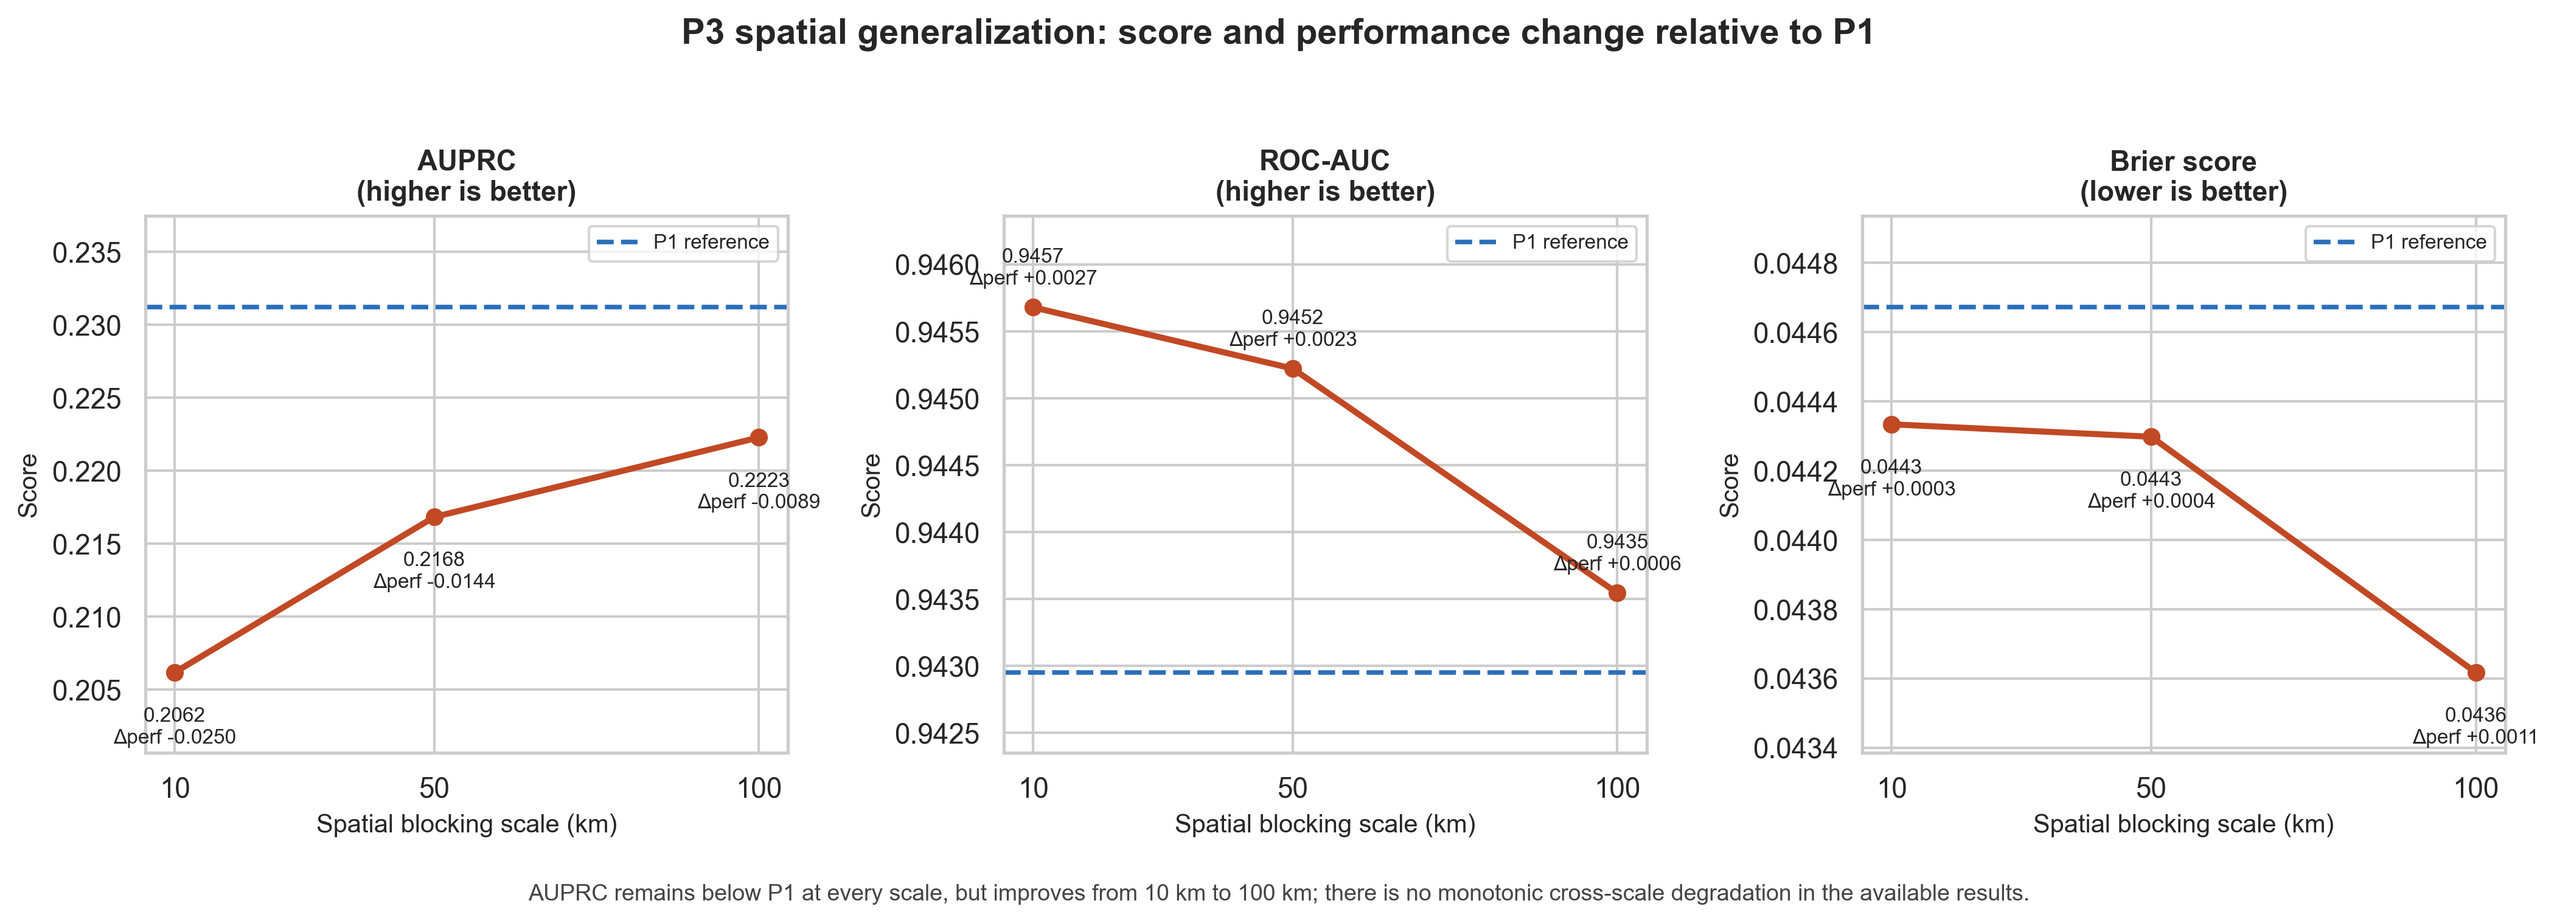
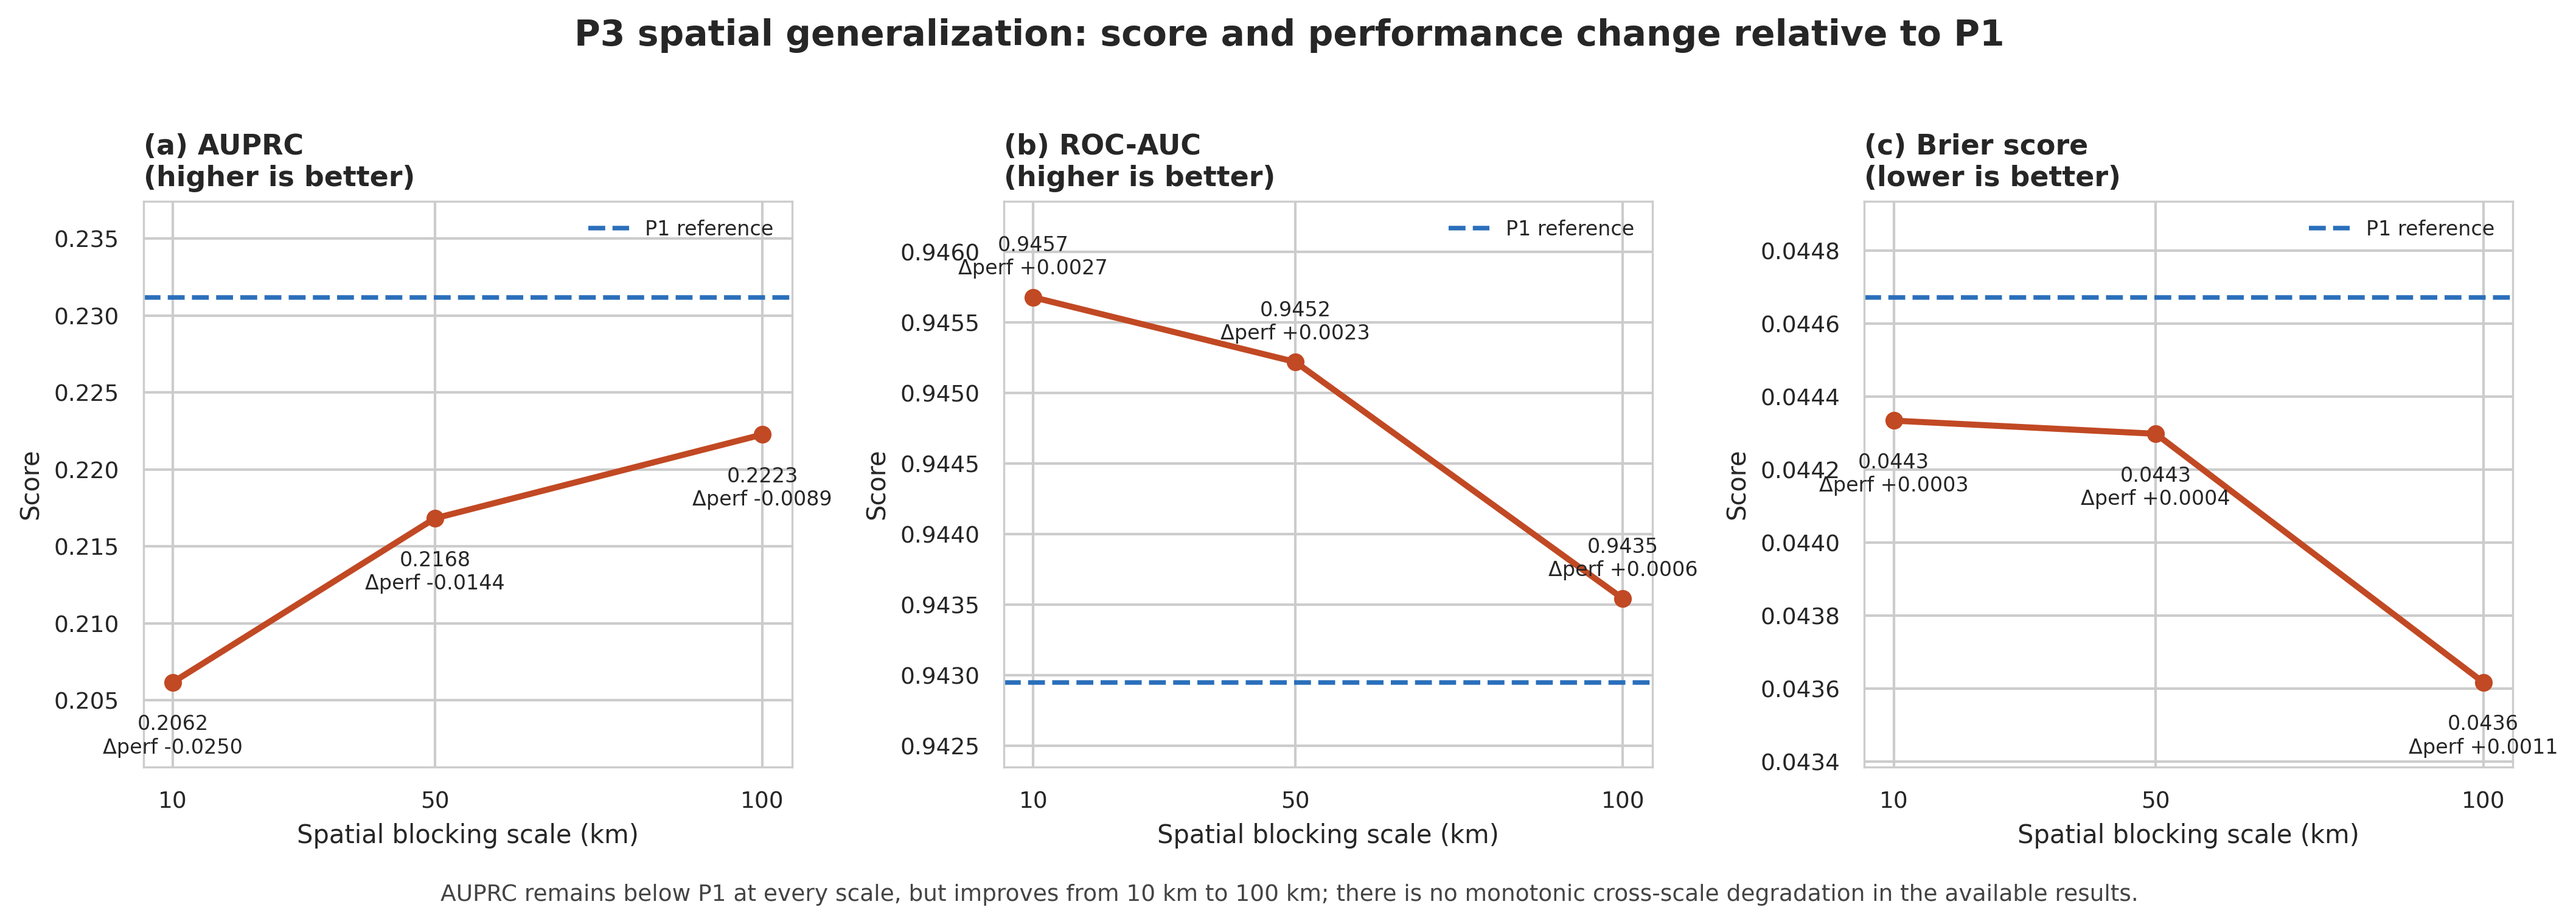
完善SHAP分析图与火灾非线性归因小结
更新文件：code/task6_shap_analysis.py、docs/README_LY_FINAL.md，以及results目录下的P1模型对比图、P3多尺度图、SHAP蜂群图、SHAP依赖图和BIOME雷达图；新增文件：docs/fire_nonlinear_trigger_ecological_attribution_summary.md。

diff --git a/code/task6_shap_analysis.py b/code/task6_shap_analysis.py
@@ -114,10 +114,16 @@ plt.rcParams.update(
     {
         "figure.dpi": 130,
         "savefig.dpi": 300,
+        "font.family": "DejaVu Sans",
+        "font.size": 9,
         "axes.titleweight": "bold",
         "axes.labelsize": 10,
         "axes.titlesize": 11,
+        "axes.linewidth": 0.8,
         "legend.fontsize": 8,
+        "legend.frameon": False,
+        "xtick.labelsize": 9,
+        "ytick.labelsize": 9,
     }
 )
 
@@ -141,7 +147,7 @@ def plot_tree_vs_baselines() -> pd.DataFrame:
         ("Brier score", "lower is better"),
     ]
     fig, axes = plt.subplots(1, 4, figsize=(14.2, 4.3))
-    for ax, (metric, direction) in zip(axes, specs):
+    for panel, (ax, (metric, direction)) in enumerate(zip(axes, specs)):
         values = metrics[metric].astype(float).to_numpy()
         names = metrics["Model"].astype(str).tolist()
         bars = ax.bar(
@@ -160,7 +166,11 @@ def plot_tree_vs_baselines() -> pd.DataFrame:
                 va="bottom",
                 fontsize=8,
             )
-        ax.set_title(f"{metric}\n{direction}", fontsize=10)
+        ax.set_title(
+            f"({chr(97 + panel)}) {metric}\n{direction}",
+            fontsize=10,
+            loc="left",
+        )
         ax.set_xticks(range(len(metrics)))
         ax.set_xticklabels(
             [MODEL_LABELS[name] for name in names], rotation=32, ha="right"
@@ -230,7 +240,9 @@ def plot_p3_generalization_gap() -> pd.DataFrame:
 
     fig, axes = plt.subplots(1, 3, figsize=(14.2, 4.5))
     scales = p3["Scale_km"].to_numpy()
-    for ax, (col, label, higher_better) in zip(axes, metric_specs):
+    for panel, (ax, (col, label, higher_better)) in enumerate(
+        zip(axes, metric_specs)
+    ):
         scores = p3[col].astype(float).to_numpy()
         reference = float(p1[col])
         ax.plot(scales, scores, marker="o", lw=2.4, color="#C14924")
@@ -249,7 +261,11 @@ def plot_p3_generalization_gap() -> pd.DataFrame:
         values = np.r_[scores, reference]
         spread = max(values.max() - values.min(), 0.001)
         ax.set_ylim(values.min() - 0.22 * spread, values.max() + 0.25 * spread)
-        ax.set_title(f"{label}\n({'higher' if higher_better else 'lower'} is better)")
+        ax.set_title(
+            f"({chr(97 + panel)}) {label}\n"
+            f"({'higher' if higher_better else 'lower'} is better)",
+            loc="left",
+        )
         ax.set_xlabel("Spatial blocking scale (km)")
         ax.set_xticks(scales)
         ax.set_ylabel("Score")
@@ -527,7 +543,7 @@ def plot_biome_shap(
         subplot_kw={"polar": True},
     )
     axes = np.atleast_1d(axes).ravel()
-    for ax, biome in zip(axes, biomes):
+    for panel, (ax, biome) in enumerate(zip(axes, biomes)):
         subset = (
             contributions.loc[contributions["BIOME"].eq(biome)]
             .set_index("feature_group")
@@ -535,19 +551,28 @@ def plot_biome_shap(
         )
         values = subset["share_within_four_groups"].to_numpy(dtype=float)
         closed = np.r_[values, values[0]]
-        ax.plot(theta_closed, closed, color="#C14924", lw=2)
-        ax.fill(theta_closed, closed, color="#C14924", alpha=0.20)
+        ax.plot(theta_closed, closed, color="#C14924", lw=2.1)
+        ax.fill(theta_closed, closed, color="#E76F51", alpha=0.22)
         ax.set_xticks(theta)
         ax.set_xticklabels(
             ["Fire history", "Drought /\nmoisture", "Wind", "Vegetation"],
             fontsize=8,
         )
-        ax.set_ylim(0, max(0.55, np.nanmax(values) * 1.08))
-        ax.set_yticklabels([])
+        # A fixed radial scale is essential for valid cross-BIOME comparison.
+        ax.set_ylim(0, 0.60)
+        ax.set_yticks([0.15, 0.30, 0.45, 0.60])
+        ax.set_yticklabels(["15%", "30%", "45%", "60%"], fontsize=6.5)
+        ax.set_rlabel_position(45)
+        ax.grid(color="#C8C8C8", lw=0.7)
         name = subset["biome_short"].dropna().iloc[0]
         n = int(performance.loc[performance["BIOME"].eq(biome), "test_n"].iloc[0])
         fires = int(performance.loc[performance["BIOME"].eq(biome), "fire_n"].iloc[0])
-        ax.set_title(f"{name} (BIOME {biome})\nn={n:,}, fires={fires}", pad=16)
+        ax.set_title(
+            f"({chr(97 + panel)}) {name} (BIOME {biome})\n"
+            f"n={n:,}, fires={fires}",
+            pad=16,
+            loc="left",
+        )
     for ax in axes[len(biomes) :]:
         ax.set_visible(False)
     fig.suptitle(

diff --git a/docs/fire_nonlinear_trigger_ecological_attribution_summary.md b/docs/fire_nonlinear_trigger_ecological_attribution_summary.md
@@ -1,0 +1,7 @@
+# 火灾非线性触发机制生态学归因小结
+
+P1 LightGBM 的 SHAP 蜂群图表明，月尺度火险并非由单一气象变量控制，而是由土地利用、地形、季节位相、人类可达性、植被状态和水分条件共同塑造。全局重要性最高的变量包括耕地比例、平均海拔、季节余弦项、距建成区距离、树冠覆盖、NDVI 与三个月累计降水，说明点火机会、燃料数量及其含水状态在不同背景下发生耦合。生态区雷达图进一步显示，在预设的四类物理驱动中，植被贡献占 35.9%–54.6%，干旱/水分占 27.0%–44.2%，风场占 12.4%–19.5%，火历史占 4.1%–14.6%；不同 BIOME 的贡献结构明显异质，因此全国统一阈值不宜直接解释为普适生态规律。
+
+依赖曲线揭示了清楚的非线性阈值。距上次火灾月数由低十分位 37 个月升至高十分位 120 个月时，平均 SHAP 由 0.536 降至 −0.105，差值 −0.641；风险贡献约在 50–65 个月附近由正转负，提示近期火活动所代表的持续点火环境或易燃景观记忆，比简单的“休养越久、燃料越多”关系更符合本数据。三个月平均 VPD 在低值区快速下降，约 0.3–0.6 后转为弱负，随后在中等区间回升，高十分位相对低十分位仍下降 0.329，呈现显著的非单调响应。三个月累计降水的抑制效应更稳定：约 250–300 后 SHAP 明显转负，低、高十分位差为 −0.610，反映持续湿润对燃料可燃性的限制。上述结论是条件关联而非独立因果效应；变量相关性、生态区组成与模型交互均会改变 SHAP 方向，应结合分区样本量、火点数和不确定性进行解释。
+
+数据依据：`04_shap_beeswarm.png`、`05_shap_dependence.png`、`05_nonlinear_trigger_summary.csv` 与 `06_biome_shap_group_contributions.csv`。

diff --git a/docs/README_LY_FINAL.md b/docs/README_LY_FINAL.md
@@ -10,9 +10,9 @@ P1 采用严格时间外推：2015–2021 训练、2022 验证、2023–2024 测
 官方 P3 结果中，空间阻断尺度由 100 km 缩小至 10 km 时，AUPRC 从 0.2223 降至 0.2062，绝对下降 **0.0161**（约 7.2%）；ROC-AUC 在 0.9435–0.9457 间基本稳定。这说明细尺度空间外推主要损失稀有起火样本的排序能力，因而需要重点关注局地气候/地貌组合与训练区域不同的网格。
 
 ## 非线性触发机制归因
-- **months_since_last_fire**：从低十分位（42.9）到高十分位（120）时，平均 SHAP 变化为 -0.600。
-- **VPD_mean_mon_lag1_roll3m_mean**：从低十分位（0.146）到高十分位（1.21）时，平均 SHAP 变化为 -0.326。
-- **P_sum_mon_lag1_roll3m_sum**：从低十分位（12）到高十分位（418）时，平均 SHAP 变化为 -0.557。
+- **months_since_last_fire**：从低十分位（37.0）到高十分位（120）时，平均 SHAP 变化为 -0.641。
+- **VPD_mean_mon_lag1_roll3m_mean**：从低十分位（0.147）到高十分位（1.19）时，平均 SHAP 变化为 -0.329。
+- **P_sum_mon_lag1_roll3m_sum**：从低十分位（13.2）到高十分位（451）时，平均 SHAP 变化为 -0.610。
 
 上述数值来自 P1 最终树模型 3,000 个测试样本的精确树 SHAP 贡献（LightGBM `pred_contrib`）。蜂群图用于判断重要性和方向；依赖图与 `05_nonlinear_trigger_summary.csv` 用于核验上述低/高状态差异。机制上，火历史体现燃料与火发生的时间记忆；持续干燥度（降水、VPD、土壤湿度、PET）调节燃料可燃性；风速/风向调节扩散条件；NDVI/EVI、树冠覆盖和土地覆盖反映燃料数量与连通性；地形和人类活动共同塑造局地微气候与点火机会。非线性关系由树模型直接学习，不能把单一变量的 SHAP 方向误解为独立因果效应。
 
